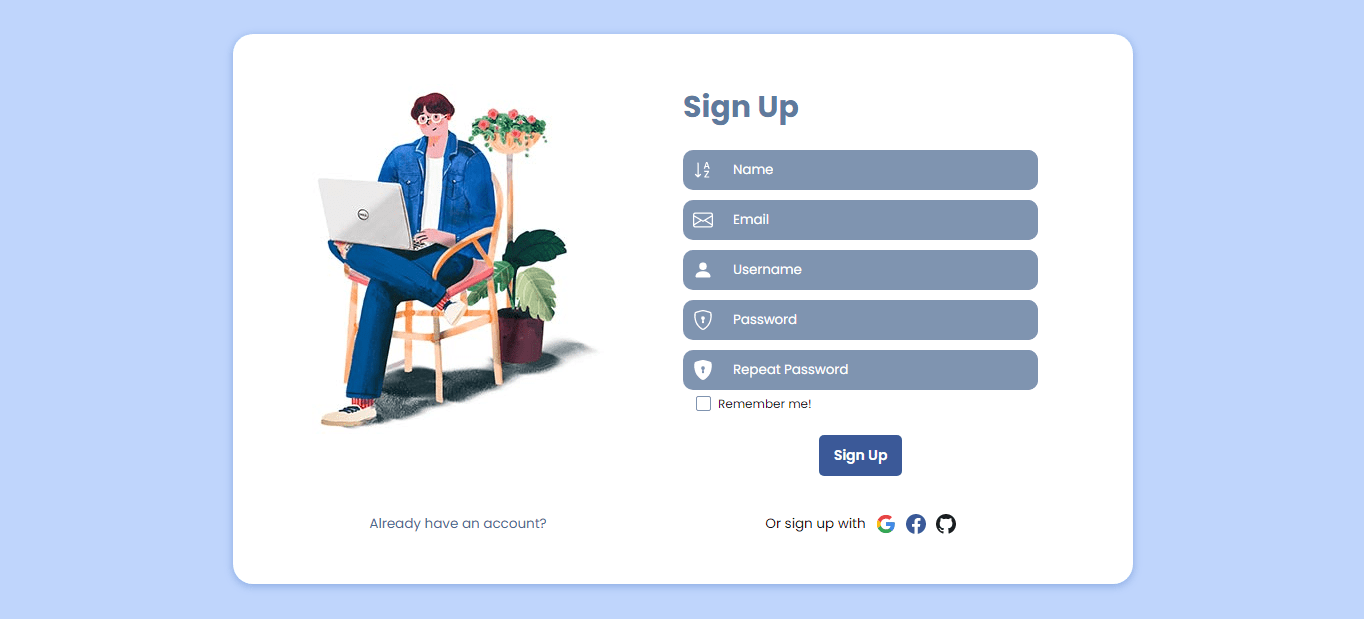
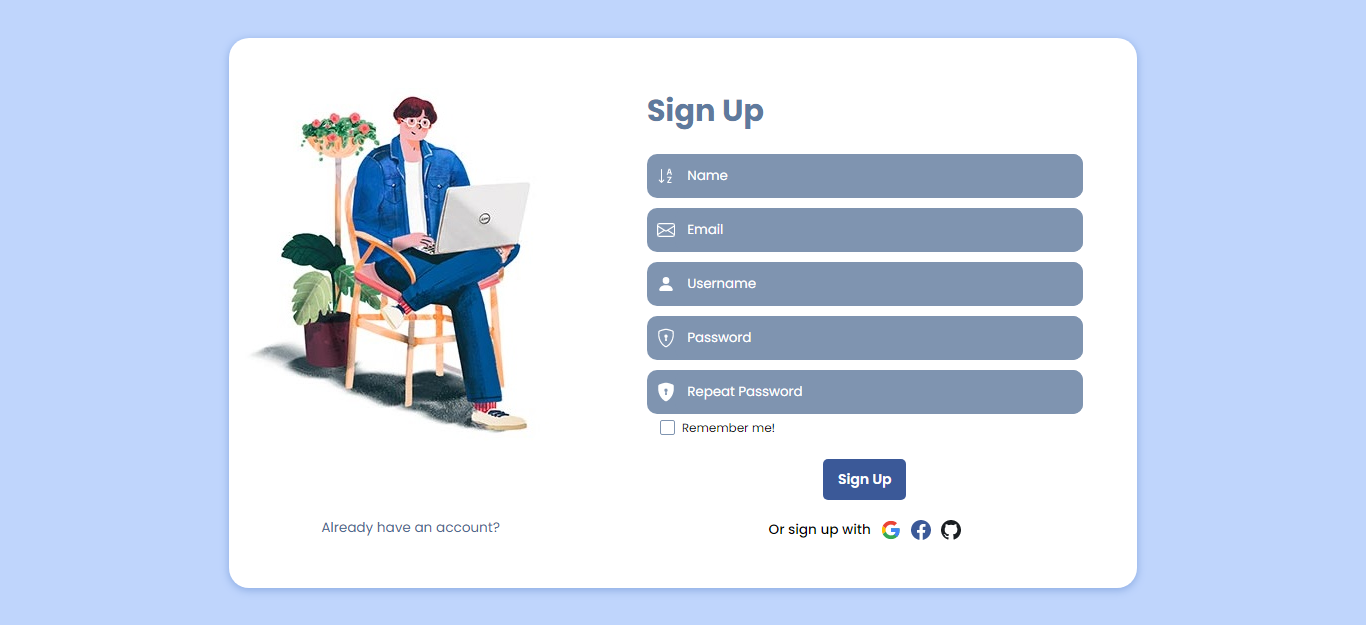
Upload last version-fix mobile menu bugs

diff --git a/signUp.css b/signUp.css
@@ -6,9 +6,18 @@
     box-sizing: border-box;
 }
 
+html {
+    font-size: 16px;
+}
+
 body {
     background-color: rgb(191, 213, 252);
     font-family: 'Poppins', sans-serif;
+    height: 100svh;
+    display: flex;
+    align-items: center;
+    justify-content: center;
+    padding: 25px 0;
 }
 
 a {
@@ -35,14 +44,14 @@ a {
 .background-container {
     display: flex;
     /* width: 900px; */
-    width: 75%;
+    width: 66.5%;
     height: 550px;
     border-radius: 20px;
     background-color: white;
-    position: absolute;
+    /* position: absolute;
     top: 50%;
     left: 50%;
-    transform: translate(-50%, -50%);
+    transform: translate(-50%, -50%); */
     box-shadow: rgb(138, 170, 226) 0px 2px 8px 0px;
     padding: 50px 0;
 }
@@ -52,11 +61,11 @@ a {
     flex-direction: column;
     justify-content: space-between;
     align-items: center;
-    width: 50%;
+    width: 40%;
 }
 
 .left-container a {
-    font-size: 13.5px;
+    font-size: .85em;
     color: rgb(77, 106, 145);
 }
 
@@ -68,11 +77,17 @@ a {
 .right-container {
     display: flex;
     flex-direction: column;
-    justify-content: space-between;
+    align-items: center;
+    gap: 20px;
+    width: 60%;
+}
+
+.form-container {
+    width: 80%;
 }
 
 h1 {
-    font-size: 30px;
+    font-size: 1.9em;
     font-weight: 700;
     color: rgb(95, 122, 157);
     padding-bottom: 20px;
@@ -83,7 +98,7 @@ h1 {
     align-items: center;
     background-color: #7f94b0;
     border-radius: 10px;
-    gap: 10px;
+    /* gap: 10px; */
     margin-bottom: 10px;
 }
 
@@ -98,13 +113,14 @@ input[type="text"], input[type="email"], input[type="password"] {
     color: white;
     font-family: 'Poppins', sans-serif;
     border-radius: 10px;
-    padding: 10px 10px;
-    width: 315px;
+    padding: 12px 12px;
+    width: 100%;
 }
 
 ::placeholder {
     font-family: 'Poppins', sans-serif;
     color: white;
+    font-size: 1em;
 }
 
 .checkbox-container {
@@ -129,7 +145,7 @@ input[type="text"], input[type="email"], input[type="password"] {
 }
 
 label {
-    font-size: 12px;
+    font-size: .75em;
     padding-left: 35px;
     cursor: pointer;
 }
@@ -162,7 +178,7 @@ button {
     padding: 10px 15px;
     color: white;
     font-family: 'Poppins', sans-serif;
-    font-size: 14px;
+    font-size: .87em;
     font-weight: 600;
     border-radius: 5px;
     cursor: pointer;
@@ -181,7 +197,8 @@ button:hover {
 }
 
 .social-signup span {
-    font-size: 13.5px;
+    font-size: .85em;
+    font-weight: 500;
 }
 
 .social-signup svg {
@@ -204,7 +221,10 @@ button:hover {
     font-weight: 500;
 }
 
-@media only screen and (max-width: 1100px) {
+@media only screen and (max-width: 965px) {
+    html {
+        font-size: 15px;
+    }
     .left-container {
         display: none;
     }
@@ -220,6 +240,39 @@ button:hover {
     }
     .login-link {
         display: block;
+    }
+}
+
+@media only screen and (max-width: 1238px) {
+    .left-container img {
+        content: url(./images/signup2.jpg);
+    }
+}
+
+@media only screen and (max-width: 1115px) {
+    /* .left-container img {
+        content: url(./images/signup2.jpg);
+    } */
+    body {
+        display: flex;
+        flex-direction: column;
+        gap: 15px;
+    }
+
+    .background-container {
+        width: 75%;
+    }
+}
+
+@media only screen and (max-width: 660px) {
+    html {
+        font-size: 14px;
+    }
+}
+
+@media only screen and (max-width: 480px) {
+    html {
+        font-size: 12px;
     }
 }
 

diff --git a/index.html b/index.html
@@ -760,6 +760,8 @@
         value.addEventListener("click", (e) => {
           document.querySelector(".active-menu").classList.toggle("active-menu");
           e.target.classList.toggle("active-menu");
+          // openMenu();
+          setTimeout(openMenu, 100);
         });
       });
 
@@ -780,6 +782,31 @@
                             try {
                               removeAllActive();
                               document.querySelector(`a.menu-item[href="#${i.id}"]`).classList.add("active-menu");
+
+                            } catch (e) {
+                            }
+                        }
+                    })
+                }, { threshold: [0.2] });
+
+                observer.observe(i);
+
+            })
+
+        const mobile_menu_links = document.querySelectorAll("a#item");
+        console.log(menu_links);
+        
+        const removeActiveMobile = (link) => mobile_menu_links[link].classList.remove("active-menu");
+        const removeAllActiveMobile = () => [...Array(sections.length).keys()].forEach((link) => {
+          removeActiveMobile(link)});
+
+      sections.forEach((i) => {
+                var observer = new IntersectionObserver(function(entries) {
+                    entries.forEach((entry) => {
+                        if(entry.isIntersecting === true){
+                            try {
+                              removeAllActiveMobile();
+                              document.querySelector(`a#item[href="#${i.id}"]`).classList.add("active-menu");
 
                             } catch (e) {
                             }
@@ -824,17 +851,15 @@
       //Smoth Move ........................................................
 
       document.addEventListener("DOMContentLoaded", () =>{
-        document.querySelector("a").addEventListener('click', function(event) {
-
+        document.querySelector("#item").addEventListener('click', function(event) {
         if (this.hash !== "") {
           event.preventDefault();
 
           var hash = this.hash;
 
-          document.querySelector('html, body').animate({
-            scrollTop: document.querySelector(hash).offset().top
-          }, 800, function(){
-
+          $('html, body').animate({
+            scrollTop: $(this.hash).offset().top
+          }, 100, function(){
             window.location.hash = hash;
           });
         }
